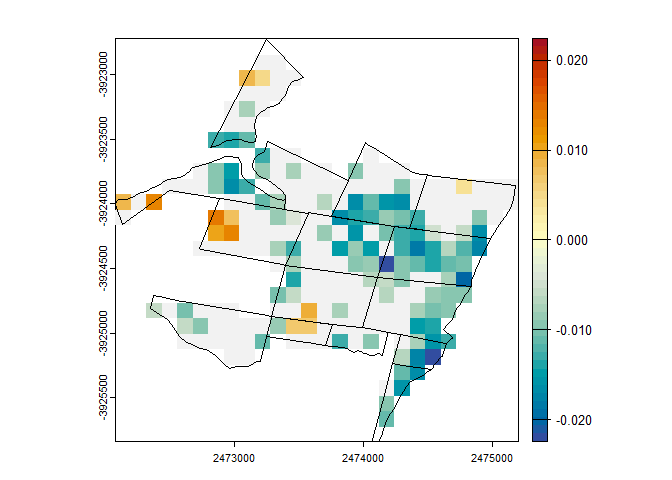
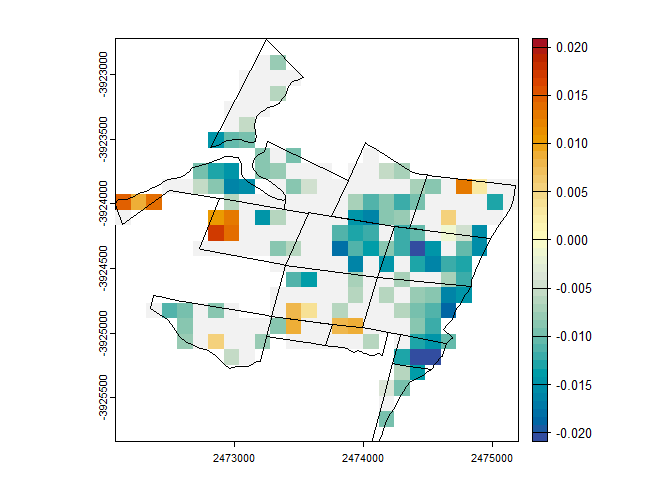
Update Baviaankloof.md

diff --git a/tutorials/BACI_Baviaanskloof.md b/tutorials/BACI_Baviaanskloof.md
@@ -13,8 +13,8 @@ Bijker
 
 # 1 The Baviaanskloof dataset
 
-We here use a part of the Baviaanskloof dataset created by [del Río-Mena
-et al.,
+We here use a part of the Baviaanskloof dataset used in [del Río-Mena et
+al.,
 2021](https://journals.plos.org/plosone/article?id=10.1371/journal.pone.0243020),
 included in the `EnvImpactEval` package, to demonstrate a
 before-after-control-impact (BACI) evaluation using the package. The
@@ -152,19 +152,19 @@ have a cloud cover below 60%.
 We then calculate simple time series metrics from these two 10-year time
 series: the average value and trend (change in NDVI/year) over the time
 series. More advanced time series analysis methods will be added in a
-later version of the `EnvImpactEval`.
+later version of the `EnvImpactEval` package.
 
 ``` r
 avgtrend_before <- calc_ts_metrics(vi_before)
 avgtrend_after <- calc_ts_metrics(vi_after)
 
-plot(avgtrend_before, main=c("NDVI average, before", "MSAVI trend, before"))
+plot(avgtrend_before, main=c("NDVI average, before", "NDVI trend, before"))
 ```
 
 ![](BACI_Baviaanskloof_files/figure-gfm/unnamed-chunk-7-1.png)<!-- -->
 
 ``` r
-plot(avgtrend_after, main=c("NDVI average, after", "MSAVI trend, after"))
+plot(avgtrend_after, main=c("NDVI average, after", "NDVI trend, after"))
 ```
 
 ![](BACI_Baviaanskloof_files/figure-gfm/unnamed-chunk-7-2.png)<!-- -->
@@ -228,7 +228,7 @@ lines(selected_sites_proj)
 ![](BACI_Baviaanskloof_files/figure-gfm/unnamed-chunk-9-1.png)<!-- -->
 
 Distance to roads or settlements can explain the anthropogenic pressure
-on an area. The `EnvImpactEval` therefore includes functions to
+on an area. The `EnvImpactEval` package therefore includes functions to
 calculate the distance to the nearest road (`osm_distance_roads`) or
 nearest settlement (`osm_distance_places`) based on OpenStreetMap data.
 For this example, we include the distance to the nearest road of OSM
@@ -269,7 +269,7 @@ matches <- matchCI(matchingCands, rast(matchingLayers), eval=TRUE, ratio=10, rep
     ##  - method: 10:1 nearest neighbor matching with replacement
     ##  - distance: Propensity score
     ##              - estimated with logistic regression
-    ##  - number of obs.: 11782 (original), 1708 (matched)
+    ##  - number of obs.: 11782 (original), 1709 (matched)
     ##  - target estimand: ATT
     ##  - covariates: elevation, slope, cos_aspect, sin_aspect, landcover, dist_roads, average, trend
     ## Press <Enter> to continue.
@@ -279,7 +279,7 @@ matches <- matchCI(matchingCands, rast(matchingLayers), eval=TRUE, ratio=10, rep
     ## 
     ## Summary of Balance for All Data:
     ##                      Means Treated Means Control Std. Mean Diff. Var. Ratio
-    ## distance                    0.0864        0.0185          0.9921     3.2613
+    ## distance                    0.0916        0.0184          0.9858     3.7093
     ## elevation                 546.9688      701.6467         -2.3803     0.1123
     ## slope                       9.5154       12.4234         -0.7395     0.2211
     ## cos_aspect                  0.0530        0.0727         -0.0289     0.9508
@@ -291,10 +291,10 @@ matches <- matchCI(matchingCands, rast(matchingLayers), eval=TRUE, ratio=10, rep
     ## landcoverBare ground        0.0000        0.0137         -0.1190          .
     ## landcoverRangeland          1.0000        0.9443          0.2453          .
     ## dist_roads                526.1387      999.0099         -1.3502     0.1085
-    ## average                     0.1228        0.1380         -1.4151     0.0961
-    ## trend                      -0.0233       -0.0279          1.8639     0.0765
+    ## average                     0.1240        0.1388         -1.3754     0.0985
+    ## trend                       0.0017        0.0006          1.2628     0.1495
     ##                      eCDF Mean eCDF Max
-    ## distance                0.3765   0.5898
+    ## distance                0.3843   0.5975
     ## elevation               0.2394   0.5518
     ## slope                   0.1271   0.2609
     ## cos_aspect              0.0354   0.0911
@@ -306,48 +306,48 @@ matches <- matchCI(matchingCands, rast(matchingLayers), eval=TRUE, ratio=10, rep
     ## landcoverBare ground    0.0137   0.0137
     ## landcoverRangeland      0.0557   0.0557
     ## dist_roads              0.0882   0.2645
-    ## average                 0.1629   0.3499
-    ## trend                   0.2069   0.4220
+    ## average                 0.1624   0.3548
+    ## trend                   0.2044   0.3693
     ## 
     ## Summary of Balance for Matched Data:
     ##                      Means Treated Means Control Std. Mean Diff. Var. Ratio
-    ## distance                    0.0864        0.0864         -0.0004     0.9990
-    ## elevation                 546.9688      542.9632          0.0616     0.2460
-    ## slope                       9.5154        9.1908          0.0826     0.1864
-    ## cos_aspect                  0.0530        0.0832         -0.0444     1.0611
-    ## sin_aspect                  0.5133        0.5119          0.0027     0.9269
+    ## distance                    0.0916        0.0916          0.0003     1.0022
+    ## elevation                 546.9688      544.5570          0.0371     0.2697
+    ## slope                       9.5154        9.7453         -0.0585     0.1762
+    ## cos_aspect                  0.0530        0.0431          0.0146     1.0701
+    ## sin_aspect                  0.5133        0.5095          0.0074     0.8928
     ## landcoverWater              0.0000        0.0000          0.0000          .
     ## landcoverTrees              0.0000        0.0000          0.0000          .
     ## landcoverCrops              0.0000        0.0000          0.0000          .
     ## landcoverBuilt area         0.0000        0.0000          0.0000          .
     ## landcoverBare ground        0.0000        0.0000          0.0000          .
     ## landcoverRangeland          1.0000        1.0000          0.0000          .
-    ## dist_roads                526.1387      494.0952          0.0915     0.3538
-    ## average                     0.1228        0.1233         -0.0444     0.1735
-    ## trend                      -0.0233       -0.0233          0.0136     0.1699
+    ## dist_roads                526.1387      520.3636          0.0165     0.3322
+    ## average                     0.1240        0.1244         -0.0388     0.1672
+    ## trend                       0.0017        0.0017          0.0155     0.3223
     ##                      eCDF Mean eCDF Max Std. Pair Dist.
-    ## distance                0.0002   0.0098          0.0091
-    ## elevation               0.0963   0.2667          1.3609
-    ## slope                   0.1526   0.3457          1.9592
-    ## cos_aspect              0.0478   0.1073          1.1736
-    ## sin_aspect              0.0201   0.0560          0.8815
+    ## distance                0.0002   0.0132          0.0108
+    ## elevation               0.0855   0.2474          1.3264
+    ## slope                   0.1495   0.3269          2.0484
+    ## cos_aspect              0.0422   0.0983          1.1639
+    ## sin_aspect              0.0200   0.0615          0.9121
     ## landcoverWater          0.0000   0.0000          0.0000
     ## landcoverTrees          0.0000   0.0000          0.0000
     ## landcoverCrops          0.0000   0.0000          0.0000
     ## landcoverBuilt area     0.0000   0.0000          0.0000
     ## landcoverBare ground    0.0000   0.0000          0.0000
     ## landcoverRangeland      0.0000   0.0000          0.0000
-    ## dist_roads              0.0825   0.2162          1.3196
-    ## average                 0.1019   0.2026          1.8946
-    ## trend                   0.0906   0.1816          1.8057
+    ## dist_roads              0.0754   0.2047          1.3647
+    ## average                 0.1091   0.2308          2.0239
+    ## trend                   0.0758   0.1440          1.5417
     ## 
     ## Sample Sizes:
-    ##               Control Treated
-    ## All           11548.      234
-    ## Matched (ESS)   995.2     234
-    ## Matched        1474.      234
-    ## Unmatched     10074.        0
-    ## Discarded         0.        0
+    ##                Control Treated
+    ## All           11548.       234
+    ## Matched (ESS)   981.99     234
+    ## Matched        1475.       234
+    ## Unmatched     10073.         0
+    ## Discarded         0.         0
     ## 
     ## Press <Enter> to continue.
 
@@ -390,17 +390,17 @@ baci_results$data
     ## Key: <subclass>
     ##      subclass       x        y      contrast      p_value
     ##        <fctr>   <num>    <num>         <num>        <num>
-    ##   1:        1 2473220 -3922900 -0.0010567364 7.397913e-01
-    ##   2:        2 2473340 -3922900  0.0017609016 2.850812e-01
-    ##   3:        3 2473100 -3923020  0.0087419604 3.127099e-02
-    ##   4:        4 2473220 -3923020  0.0047498201 3.194068e-02
-    ##   5:        5 2473340 -3923020 -0.0006903289 8.626671e-01
+    ##   1:        1 2473220 -3922900  0.0026579992 5.210958e-01
+    ##   2:        2 2473340 -3922900 -0.0077246252 2.776557e-03
+    ##   3:        3 2473100 -3923020  0.0010438368 6.692965e-01
+    ##   4:        4 2473220 -3923020  0.0003944248 9.279116e-01
+    ##   5:        5 2473340 -3923020  0.0033902796 4.287808e-01
     ##  ---                                                     
-    ## 230:      230 2474420 -3925300 -0.0164995292 1.554355e-06
-    ## 231:      231 2474180 -3925420 -0.0020698763 4.691941e-01
-    ## 232:      232 2474300 -3925420 -0.0155974200 2.868748e-04
-    ## 233:      233 2474180 -3925540 -0.0092595581 1.094736e-02
-    ## 234:      234 2474180 -3925660 -0.0116526078 1.124227e-02
+    ## 230:      230 2474420 -3925300 -0.0141403838 2.921116e-06
+    ## 231:      231 2474180 -3925420 -0.0033446828 4.132455e-02
+    ## 232:      232 2474300 -3925420 -0.0096663851 2.227222e-06
+    ## 233:      233 2474180 -3925540 -0.0038216977 1.884310e-01
+    ## 234:      234 2474180 -3925660 -0.0095621575 3.075556e-02
 
 The BACI results can also be plotted on a map, here with non-significant
 BACI contrast masked out. If desired, the pixel-based results can now be
